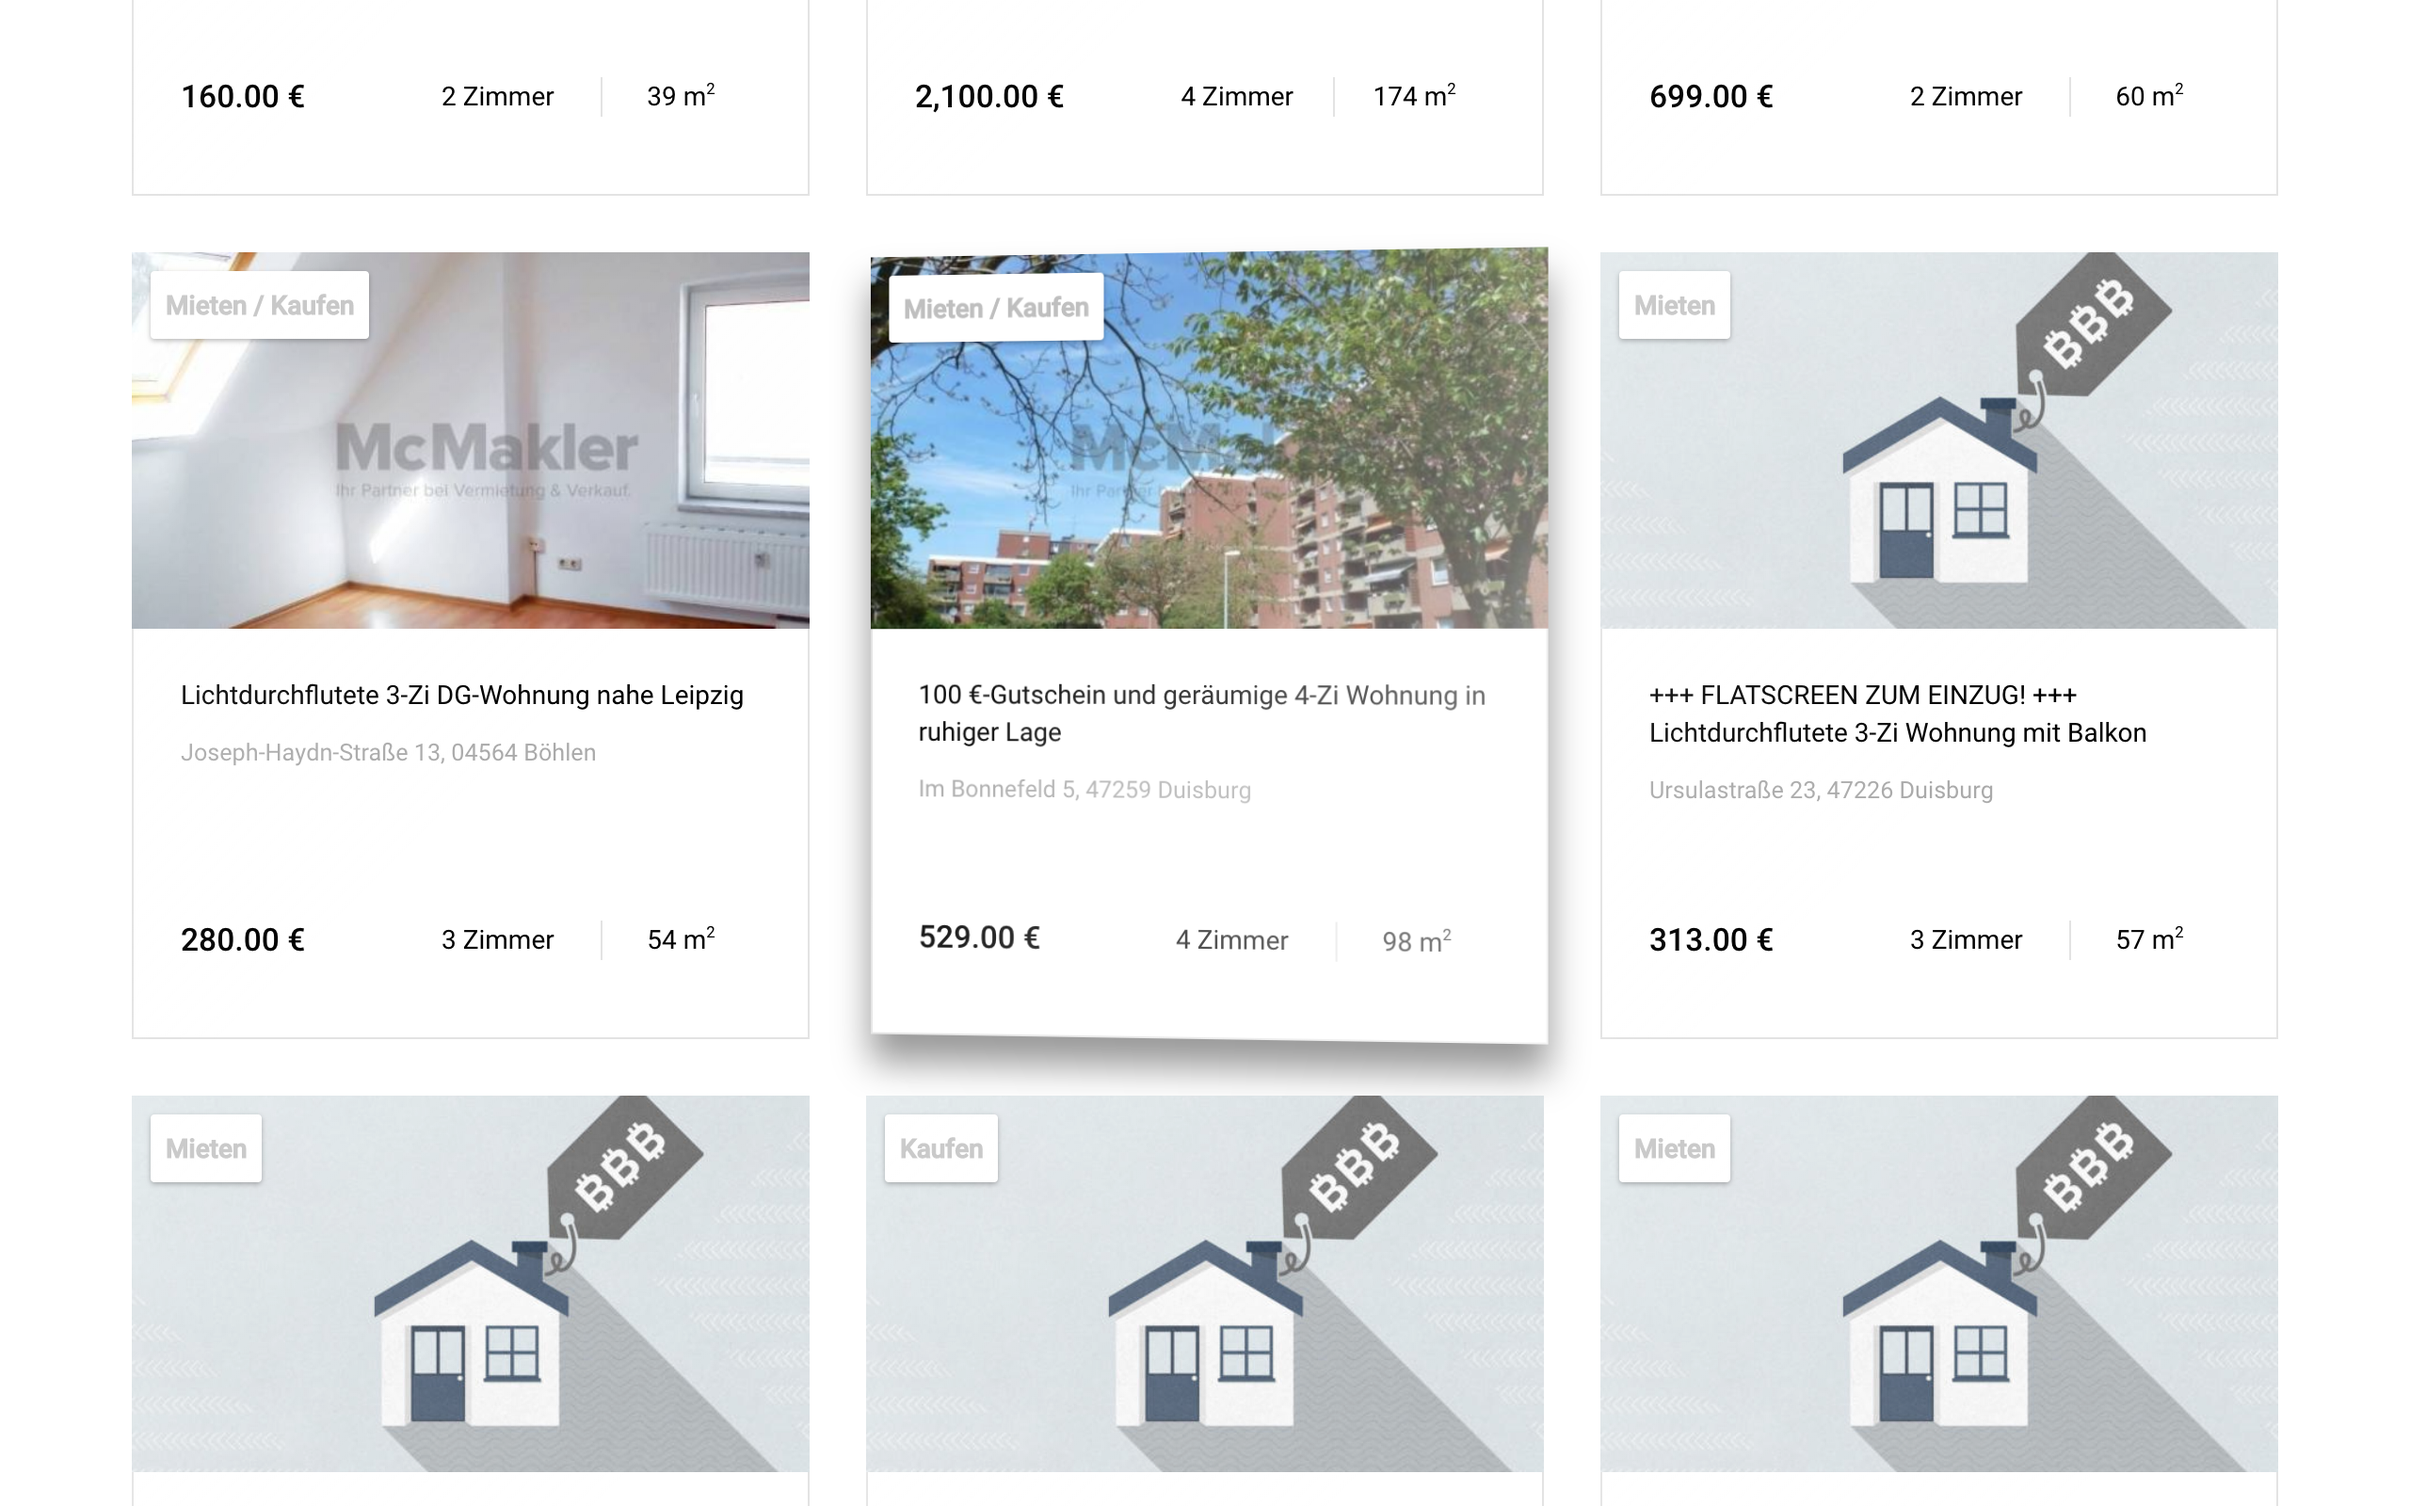
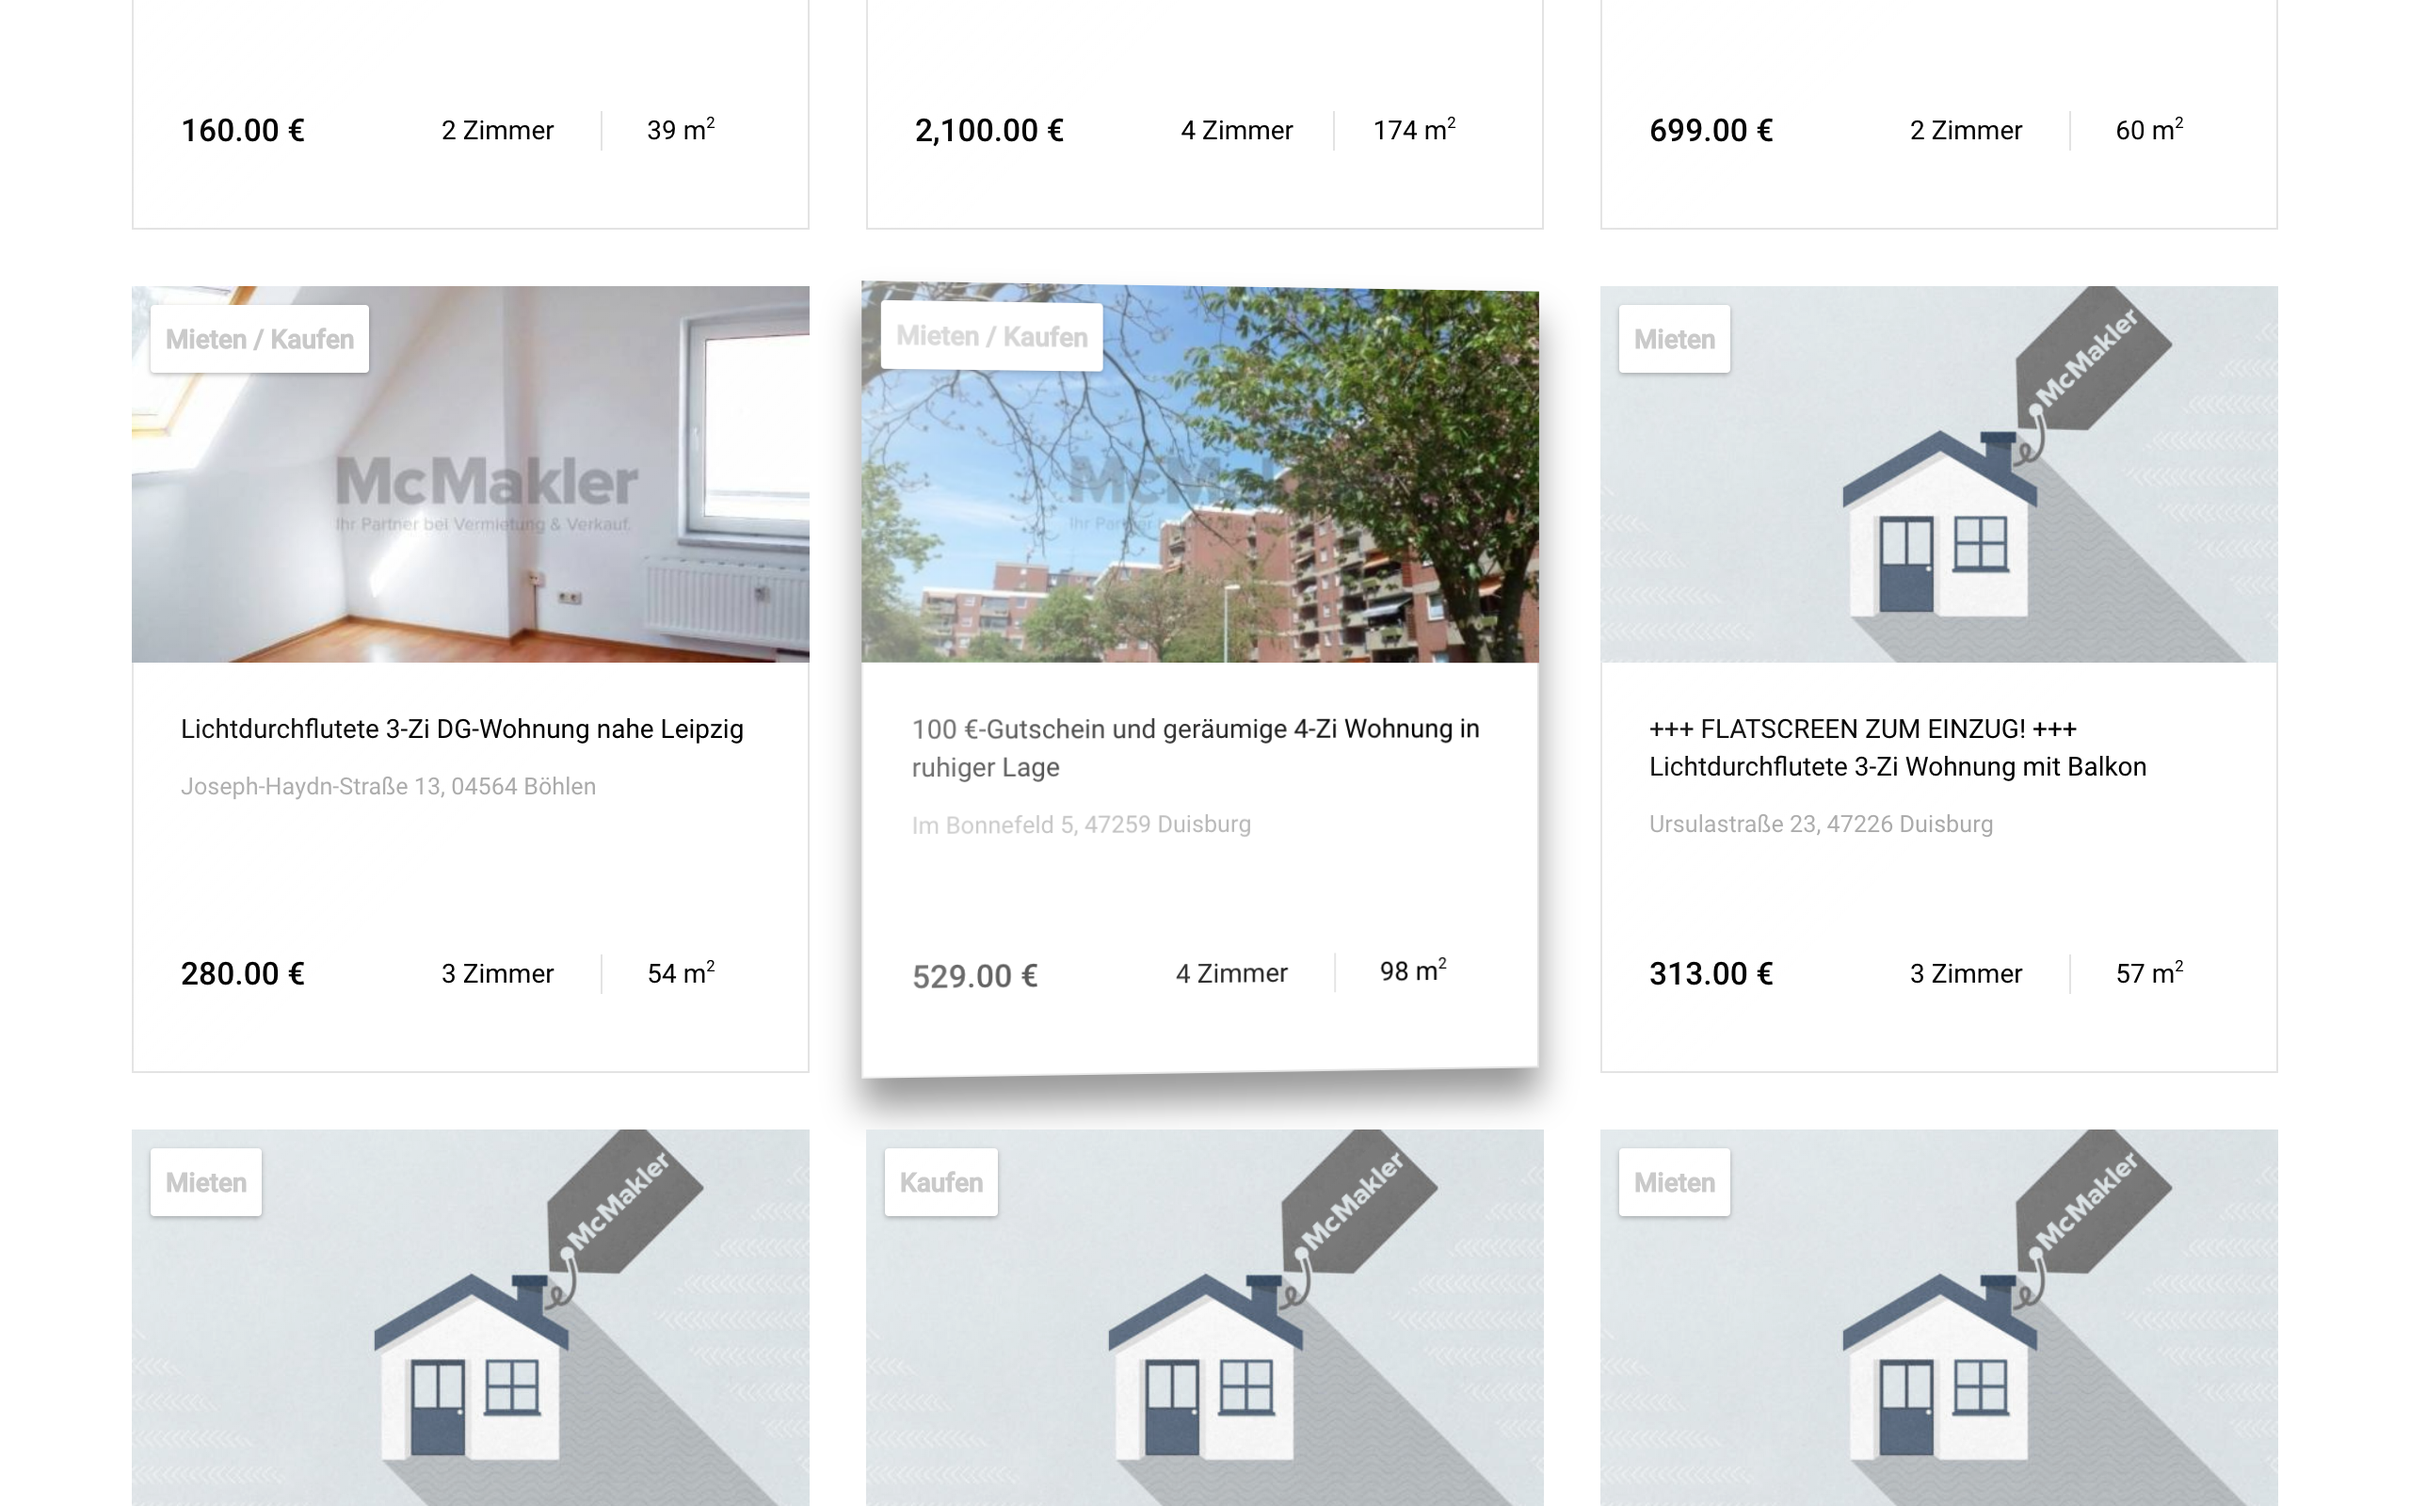
Updated the default img, updated variable name

diff --git a/client/src/app/property-card/property-card.component.ts b/client/src/app/property-card/property-card.component.ts
@@ -20,7 +20,6 @@ export class PropertyCardComponent implements OnInit {
     this.h = window.innerHeight;
   }
   /*
-    Beta:
     Inspired by the Apple TV Card animation,
     Calculating the Amount of swing to the card while the mouse hovers the card,
     Also calculating the glare effect's reflection on the card.
@@ -37,11 +36,11 @@ export class PropertyCardComponent implements OnInit {
     if (angle < 0) {
       angle = angle + 360;
     }
-    const glare = `linear-gradient(${angle}deg, rgba(255,255,255, ${event.screenY /
+    const glareShine = `linear-gradient(${angle}deg, rgba(255,255,255, ${event.screenY /
       this.h}) 0%,rgba(255,255,255,0) 80%)`;
 
     this.transformStyle = transformCard;
-    this.glareStyle = glare;
+    this.glareStyle = glareShine;
   }
   /*
     Reset the Transformation / Glare shines calculated on Mouse Move.
